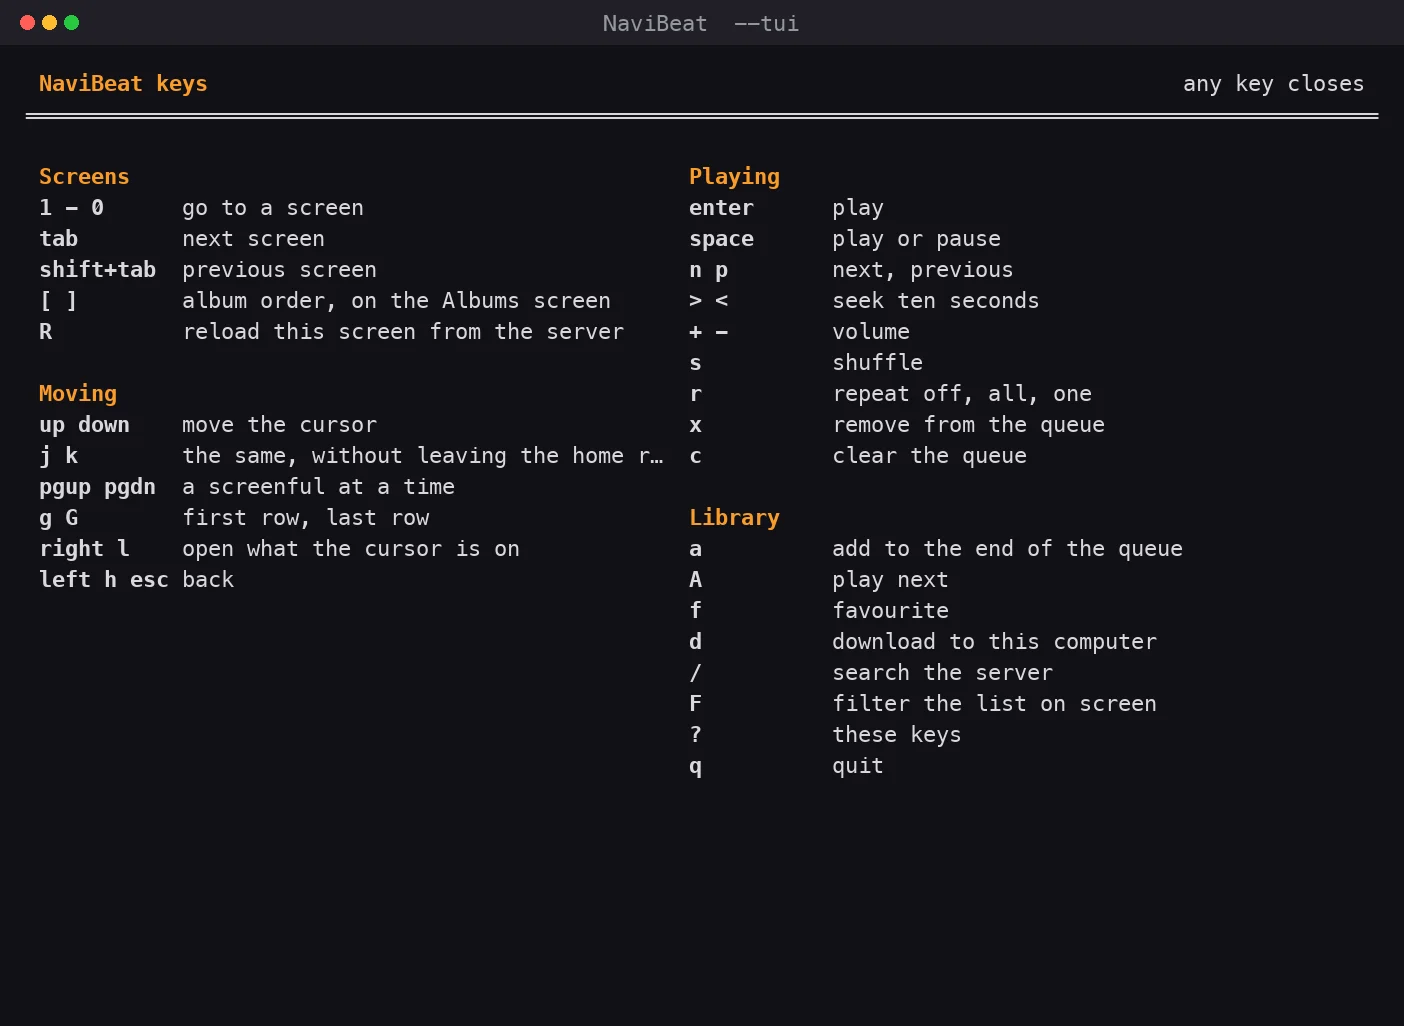
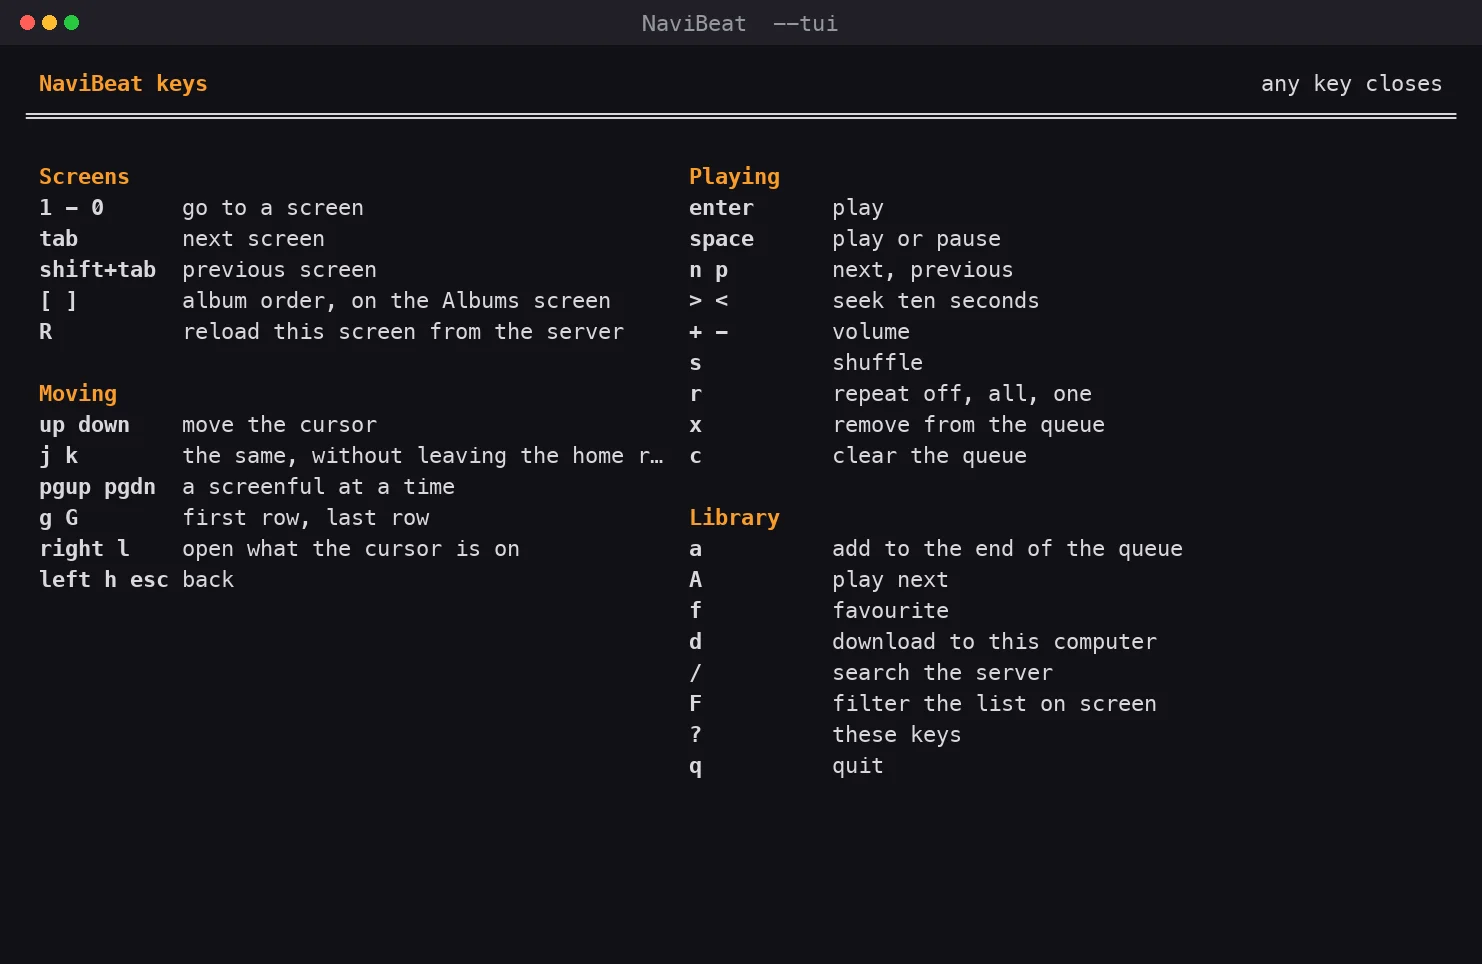
site: re-capture the Linux terminal screenshots at the strip's own aspect ratio
Synced-From: NaviBeat/marketing/site

diff --git a/linux.html b/linux.html
@@ -462,7 +462,7 @@
           <figure class="p-shot__media">
             <img src="assets/screenshots/linux/linux-tui.webp"
                  alt="NaviBeat terminal client on Linux: an alphabetical album list of a 200 album library with artist and year columns, and a now playing bar showing a FLAC track with a progress bar"
-                 width="1404" height="1026" loading="lazy" decoding="async">
+                 width="1482" height="964" loading="lazy" decoding="async">
           </figure>
           <div class="p-shot__copy">
             <p class="eyebrow">01 / Terminal client</p>
@@ -475,7 +475,7 @@
           <figure class="p-shot__media">
             <img src="assets/screenshots/linux/linux-tui-keys.webp"
                  alt="NaviBeat terminal client key map: screens on the number keys, j and k to move, enter to play, slash to search, question mark for help"
-                 width="1404" height="1026" loading="lazy" decoding="async">
+                 width="1482" height="964" loading="lazy" decoding="async">
           </figure>
           <div class="p-shot__copy">
             <p class="eyebrow">02 / Keys</p>
@@ -531,11 +531,11 @@
           <p class="strip__caption">Rockbox sync</p>
         </div>
         <div class="strip__item">
-          <img src="assets/screenshots/linux/linux-tui.webp" alt="NaviBeat terminal client on Linux, running with --tui" width="1404" height="1026" loading="lazy" decoding="async">
+          <img src="assets/screenshots/linux/linux-tui.webp" alt="NaviBeat terminal client on Linux, running with --tui" width="1482" height="964" loading="lazy" decoding="async">
           <p class="strip__caption">Terminal client</p>
         </div>
         <div class="strip__item">
-          <img src="assets/screenshots/linux/linux-tui-keys.webp" alt="NaviBeat terminal client key map" width="1404" height="1026" loading="lazy" decoding="async">
+          <img src="assets/screenshots/linux/linux-tui-keys.webp" alt="NaviBeat terminal client key map" width="1482" height="964" loading="lazy" decoding="async">
           <p class="strip__caption">Terminal keys</p>
         </div>
       </div>
